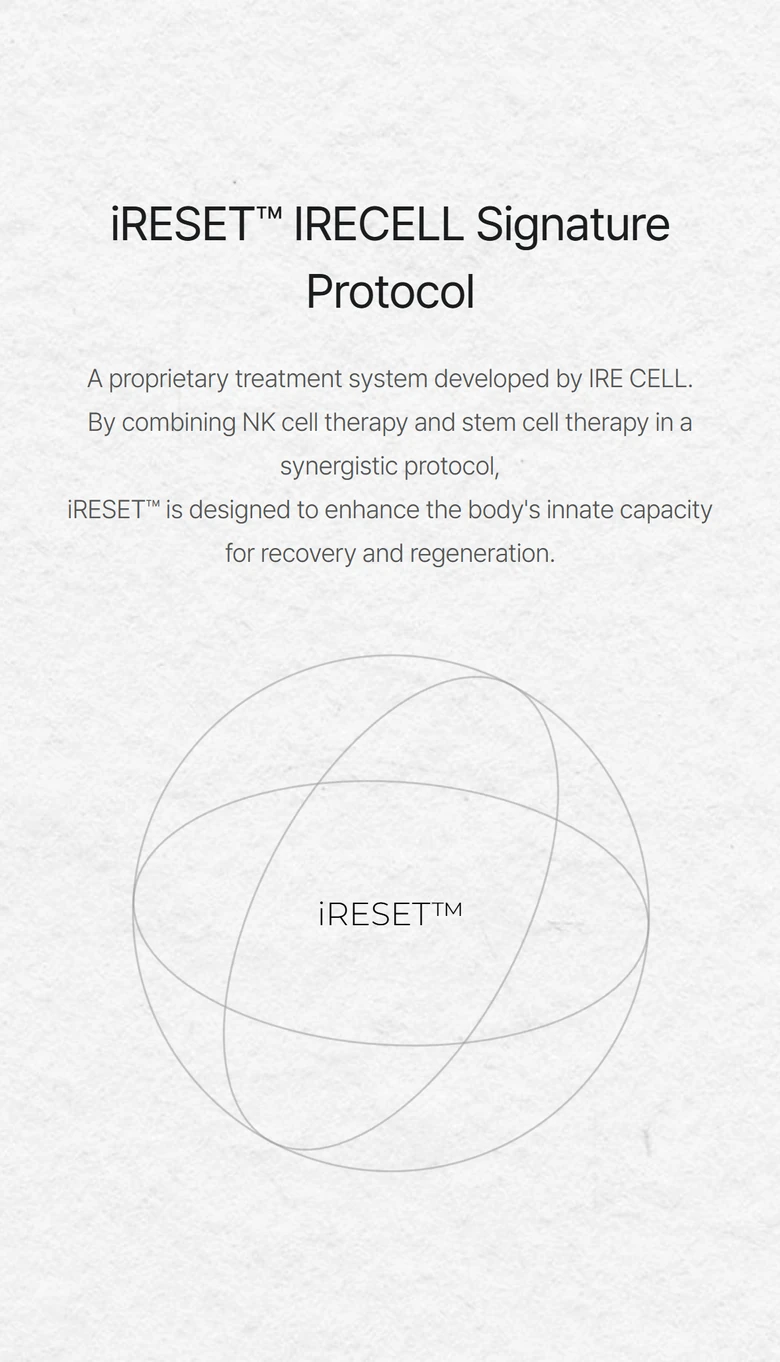
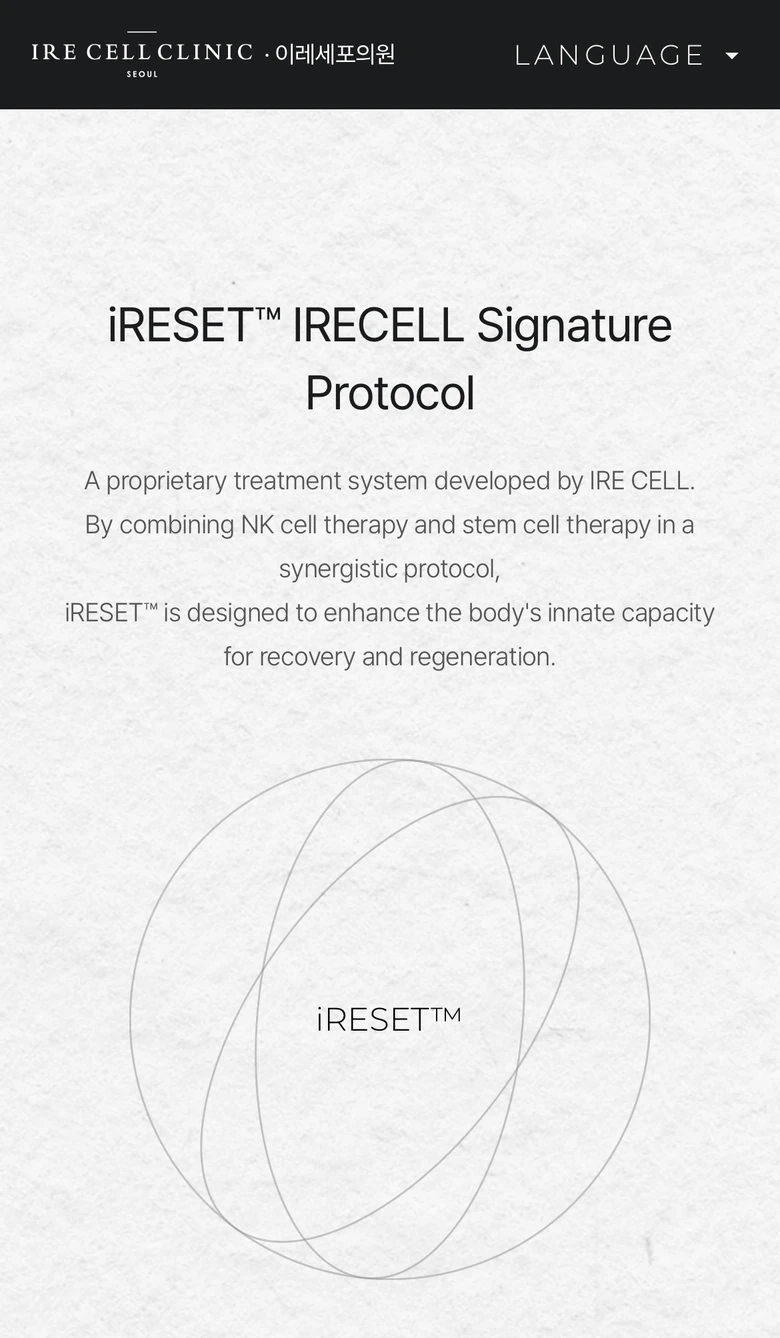
이레세포 다국어 이미지를 언어별 원본 캡처(메인·iRESET·원장 소개)로 교체
Claude-Session: https://claude.ai/code/session_01JxEUUdRAvq1BXQfKpdxvD4

diff --git a/work/irecell.html b/work/irecell.html
@@ -48,7 +48,7 @@
 <section class="section section--surface"><div class="container"><div class="section-head" data-reveal><p class="t-eyebrow">KEY POINTS</p><h2 class="t-h1">한 페이지에 담은 네 가지</h2></div><div class="points" style="--cols:4"><div class="point" data-reveal style="--delay:0.00s"><span class="num t-h3">01</span><h3 class="t-h3">절제된 원페이지</h3><p>해외 · 국내 줄기세포 병원 사례처럼 정보를 덜어내고, 다크 톤과 여백으로 프리미엄 병원의 인상을 만들었습니다.</p></div><div class="point" data-reveal style="--delay:0.06s"><span class="num t-h3">02</span><h3 class="t-h3">자연스러운 스크롤 흐름</h3><p>히어로 바로 다음에 이레세포만의 줄기세포 치료를 보여주고, 이미지와 정보를 차례로 배치해 스크롤만으로 병원을 이해하도록 구성했습니다.</p></div><div class="point" data-reveal style="--delay:0.12s"><span class="num t-h3">03</span><h3 class="t-h3">다국어 3종</h3><p>언어별 페이지를 따로 구현하고, 번역문의 어색한 줄바꿈을 다듬었습니다. 연락 수단도 위챗 · 왓츠앱으로 언어별로 나눴습니다.</p></div><div class="point" data-reveal style="--delay:0.18s"><span class="num t-h3">04</span><h3 class="t-h3">인터랙션</h3><p>회전하는 원 그래픽과, 커서가 원 형태로 바뀌며 뒤 이미지의 색을 반전시키는 효과를 넣었습니다.</p></div></div></div></section>
 <section class="section"><div class="container"><div class="section-head" data-reveal><p class="t-eyebrow">FULL PAGE</p><h2 class="t-h1">전체 페이지</h2><p class="t-sub">실제 사이트의 전체 화면입니다. 화면 안에서 스크롤하면 처음부터 끝까지 볼 수 있습니다.</p></div><div class="browser" data-reveal><div class="browser-bar"><span class="dots" aria-hidden="true"><i></i><i></i><i></i></span><span class="url">irecellclinic.com</span><a class="open" href="../img/irecell/fullpage.webp" target="_blank" rel="noopener">원본 크기 ↗</a></div><div class="browser-view" tabindex="0" aria-label="이레세포 홈페이지 전체 화면 — 스크롤해서 보기"><img src="../img/irecell/fullpage.webp" alt="이레세포 홈페이지 전체 화면" width="1920" height="7951" loading="lazy" decoding="async"></div><span class="browser-hint" aria-hidden="true">스크롤해서 전체 보기 ↓</span></div></div></section>
 <section class="section"><div class="container"><div class="section-head" data-reveal><p class="t-eyebrow">LIVE SITE</p><h2 class="t-h1">인터랙션은 사이트에서</h2><p class="t-sub">회전하는 원 그래픽과 원형 커서의 색상 반전 효과는 캡처로 담기지 않아, 실제 사이트에서 직접 확인할 수 있습니다.</p></div><div class="figs" style="--cols:1;--cols-m:1"><figure class="fig" data-reveal style="--delay:0.00s"><img src="../img/irecell/section-ireset.webp" alt="iRESET 프로토콜" width="2400" height="1331" loading="lazy" decoding="async"><figcaption><span class="num">01</span><strong class="t-h3">iRESET 프로토콜</strong><span class="sub">회전하는 원 그래픽</span></figcaption></figure><figure class="fig" data-reveal style="--delay:0.06s"><img src="../img/irecell/section-cells.webp" alt="세포 치료 카드" width="2400" height="1069" loading="lazy" decoding="async"><figcaption><span class="num">02</span><strong class="t-h3">세포 치료 카드</strong><span class="sub">원형 커서 · 뒤 이미지 색상 반전</span></figcaption></figure></div><div class="block-actions" data-reveal><a class="btn btn--primary" href="https://irecellclinic.com" target="_blank" rel="noopener">사이트에서 인터랙션 보기 ↗</a></div></div></section>
-<section class="section section--surface"><div class="container"><div class="section-head" data-reveal><p class="t-eyebrow">MULTILINGUAL</p><h2 class="t-h1">한국어 · 영어 · 중국어</h2><p class="t-sub">하나의 디자인을 퍼블리싱한 뒤 언어별 페이지로 나누고, 클라이언트가 제공한 번역문을 적용했습니다. 같은 섹션을 언어별 모바일 화면으로 비교했습니다.</p></div><div class="figs" style="--cols:3;--cols-m:1"><figure class="fig" data-reveal style="--delay:0.00s"><img src="../img/irecell/lang-kr.webp" alt="iRESET 섹션 한국어 모바일 화면" width="780" height="1207" loading="lazy" decoding="async"><figcaption><strong class="t-h3">한국어</strong><span class="sub">KR</span></figcaption></figure><figure class="fig" data-reveal style="--delay:0.06s"><img src="../img/irecell/lang-en.webp" alt="iRESET 섹션 영어 모바일 화면" width="780" height="1362" loading="lazy" decoding="async"><figcaption><strong class="t-h3">English</strong><span class="sub">EN</span></figcaption></figure><figure class="fig" data-reveal style="--delay:0.12s"><img src="../img/irecell/lang-cn.webp" alt="iRESET 섹션 중국어 모바일 화면" width="780" height="1207" loading="lazy" decoding="async"><figcaption><strong class="t-h3">中文</strong><span class="sub">CN</span></figcaption></figure></div><div class="notes"><div data-reveal><h3 class="t-h3">언어별 페이지</h3><p>버튼으로 텍스트만 바꾸지 않고 언어마다 별도 페이지로 이동하게 구현</p></div><div data-reveal><h3 class="t-h3">줄바꿈 다듬기</h3><p>언어마다 글자 길이가 달라 어색하게 끊기는 문장을 직접 수정</p></div><div data-reveal><h3 class="t-h3">연락 수단 구분</h3><p>중국어는 위챗, 영어는 왓츠앱 등 언어권에 맞는 연락 방법 배치</p></div></div></div></section>
+<section class="section section--surface"><div class="container"><div class="section-head" data-reveal><p class="t-eyebrow">MULTILINGUAL</p><h2 class="t-h1">한국어 · 영어 · 중국어</h2><p class="t-sub">하나의 디자인을 퍼블리싱한 뒤 언어별 페이지로 나누고, 클라이언트가 제공한 번역문을 적용했습니다.</p></div><div class="figs" style="--cols:3;--cols-m:1"><figure class="fig" data-reveal style="--delay:0.00s"><img src="../img/irecell/lang-kr.webp" alt="한국어 메인 비주얼 모바일 화면" width="780" height="1338" loading="lazy" decoding="async"><figcaption><strong class="t-h3">한국어</strong><span class="sub">메인 비주얼</span></figcaption></figure><figure class="fig" data-reveal style="--delay:0.06s"><img src="../img/irecell/lang-en.webp" alt="영어 iRESET 섹션 모바일 화면" width="780" height="1338" loading="lazy" decoding="async"><figcaption><strong class="t-h3">English</strong><span class="sub">iRESET 프로토콜</span></figcaption></figure><figure class="fig" data-reveal style="--delay:0.12s"><img src="../img/irecell/lang-cn.webp" alt="중국어 대표원장 소개 모바일 화면" width="780" height="1338" loading="lazy" decoding="async"><figcaption><strong class="t-h3">中文</strong><span class="sub">대표원장 소개</span></figcaption></figure></div><div class="notes"><div data-reveal><h3 class="t-h3">언어별 페이지</h3><p>버튼으로 텍스트만 바꾸지 않고 언어마다 별도 페이지로 이동하게 구현</p></div><div data-reveal><h3 class="t-h3">줄바꿈 다듬기</h3><p>언어마다 글자 길이가 달라 어색하게 끊기는 문장을 직접 수정</p></div><div data-reveal><h3 class="t-h3">연락 수단 구분</h3><p>중국어는 위챗, 영어는 왓츠앱 등 언어권에 맞는 연락 방법 배치</p></div></div></div></section>
 <section class="section"><div class="container"><div class="duo"><div data-reveal><p class="t-eyebrow">LOOKING BACK</p><h2 class="t-h2">아쉬웠던 점</h2><div class="t-body-l"><p>정보가 적은 원페이지인 만큼, 텍스트 페이드인 같은 인터랙션을 더 활용했다면 글이 적어도 심심하지 않은 페이지를 만들 수 있었을 것 같습니다.</p></div></div><div data-reveal><p class="t-eyebrow">AFTER</p><h2 class="t-h2">이후 달라진 작업 방식</h2><div class="t-body-l"><p>AI를 섹션 단위로 쓰던 방식에서 프로젝트 전체를 한 번에 관리하는 방식으로 바꿔 퍼블리싱 속도를 높였습니다. 네비게이션 · 푸터처럼 모든 페이지에 들어가는 부분은 CSS를 따로 분리하고, AI가 만든 폴더 구조를 보며 파일 정리 방식을 익혔습니다.</p></div></div></div></div></section>
 <section class="result-blue"><div class="container inner"><div class="text" data-reveal><p class="t-eyebrow">RESULT</p><h2 class="t-h1">큰 수정 없이 오픈하고,<br>연계 프로젝트로 이어졌습니다.</h2><p class="t-body-l">이 작업을 계기로 같은 클라이언트의 세포 배양 연구소 GENOVA LAB 홈페이지 디자인을 이어서 맡았습니다.</p></div><div class="actions" data-reveal><a class="btn btn--line" href="https://irecellclinic.com" target=_blank rel=noopener>사이트 바로가기 ↗</a><a class="btn btn--line" href="genova.html">GENOVA LAB 보기 →</a></div></div></section>
 <nav class="next-nav section--surface" aria-label="프로젝트 이동">
